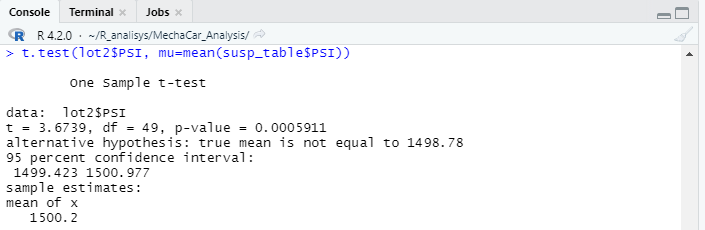
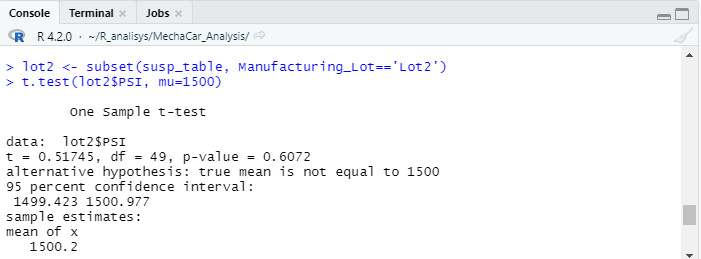
resub

Changed region(s): [[0.0, 0.0, 1.0, 1.0]]

diff --git a/README.md b/README.md
@@ -18,15 +18,15 @@ The design specifications for the MechaCar suspension coils dictate that the var
 ![lot summary](images/del2_lot.PNG)  
     - Lot 3 coils should not be used during the MecaCar production as they have a variance of 170 PSI.  
 ## T Tests on Suspension Coils
-For the entire coil table we have a p-value of 1 which suggests that there is a significant difference from the true mean of the entire pupolation.  
+The entire population coil test shows a small variance from the target mean of 1500 PSI.  
 ![t test](images/del3_test1.PNG)  
-After looking at the p values for each individual lot we get a different story. For lot 1 we found a p-value of 1.5618e-11, which suggests that coils from lot 1 are at the true mean of the population.  
+Lot 1 has a mean exact to the target PSI of 1500.  
 ![t test lot 1](images/del3_test_lot1.PNG)  
-For lot 2 we found a p-value of 0.0005911, which suggest that coils from lot 2 are very close to the true mean of the population. 
+Lot 2 has a mean close to our target PSI of 1500. 
 ![t test lot 2](images/del3_test_lot2.PNG)  
-For lot 3 we found a p-value of 0.1589, this value is greater that our significance value of 0.05, which suggests that coils from lot 3 are far from the true mean of the entire population.  
+Lot 3 has the greatest variance in PSI.  
 ![t test lot 3](images/del3_test_lot3.PNG)  
-From these results, we learned that coils from lot 3 alone, have a big influence on the overall p-value of the entire population.
+From these results, we learned that coils from lot 3 alone, have a big influence on the overall mean value of the entire population. Coils from lot 3 failed the test and should not be used during production.  
 ## Study Design MechaCar vs Competition
 When it comes to cars and car users there are a lot of questions that come to mind, and it should. Cars are not an easy purchase, from the purpose of the vehicle to the price tag, every aspect around that car should be consider so that buyers can make an informed decision.
 Nowadays the concerned for environmantally friendly products are more important to the public. For that reason, this study will focus on fuel efficiency.  
